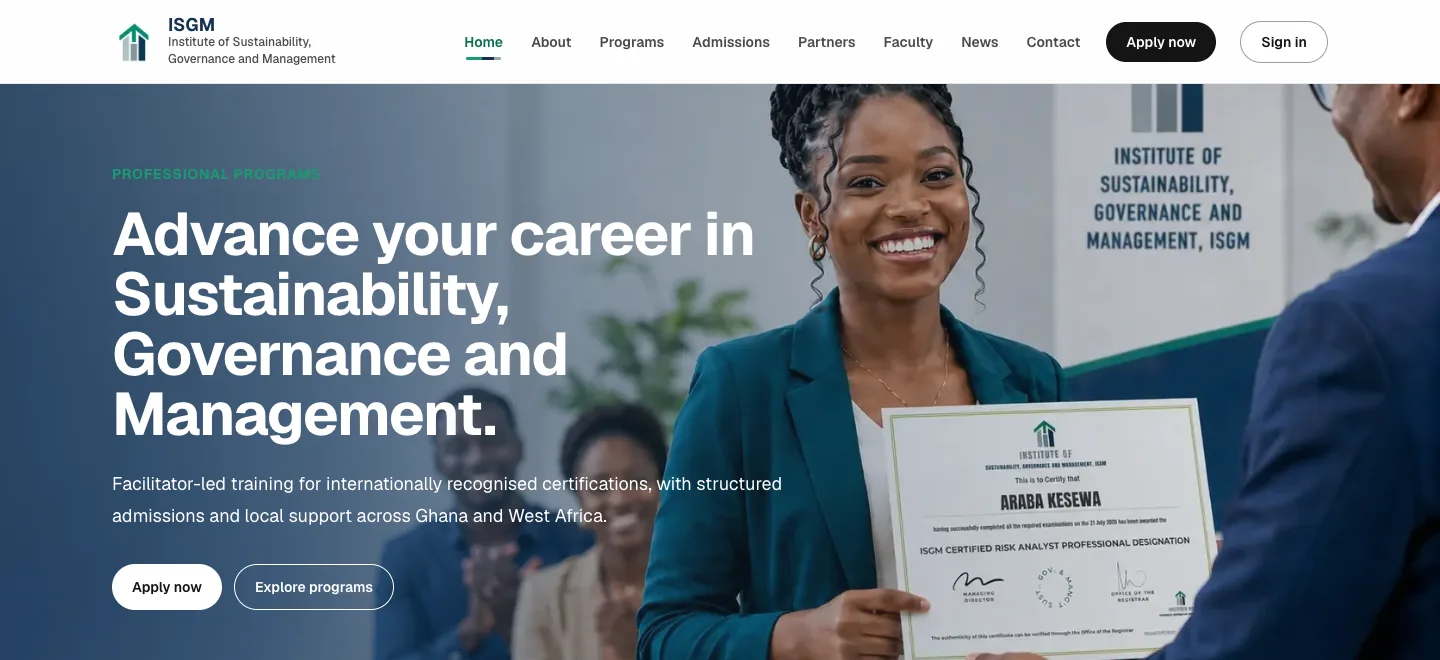
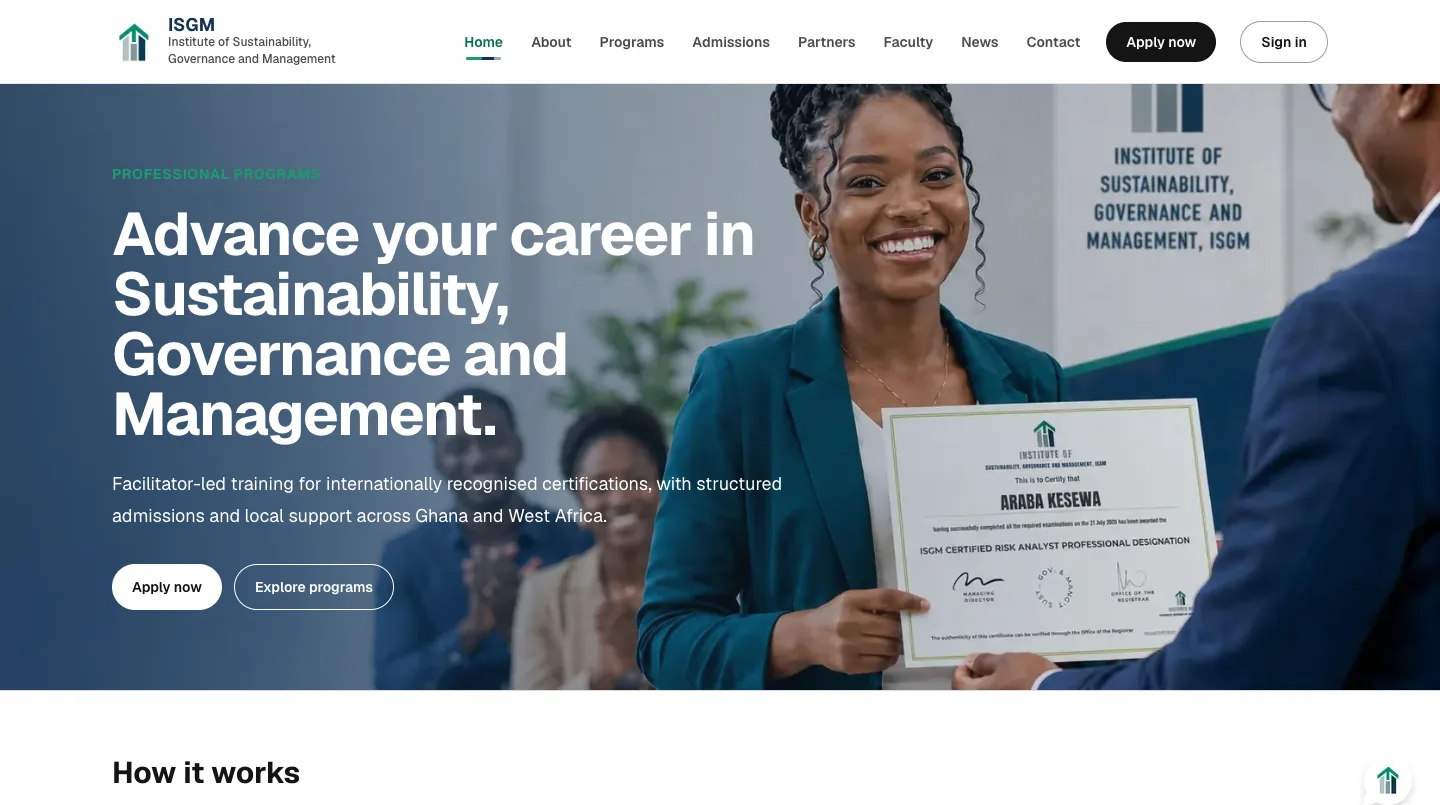
Phase 4: ISGM case study — gallery, public screens, full factual write-up

diff --git a/components/sections/CaseStudyGallery.tsx b/components/sections/CaseStudyGallery.tsx
@@ -1,0 +1,87 @@
+import Image from "next/image";
+import { Container } from "@/components/ui/Container";
+import { Reveal } from "@/components/ui/Reveal";
+
+interface CaseStudyGalleryProps {
+  title: string;
+  /** Cover shown first when present; screenshots follow without duplicating the cover path. */
+  cover?: string;
+  screenshots?: string[];
+}
+
+function labelFromPath(src: string): string {
+  const file = src.split("/").pop()?.replace(/\.(webp|png|jpe?g|avif)$/i, "") ?? "screenshot";
+  return file
+    .replace(/^isgm-/, "")
+    .replace(/[-_]+/g, " ")
+    .replace(/\b\w/g, (c) => c.toUpperCase());
+}
+
+export function CaseStudyGallery({ title, cover, screenshots = [] }: CaseStudyGalleryProps) {
+  const images = [
+    ...(cover ? [{ src: cover, label: "Overview" }] : []),
+    ...screenshots
+      .filter((src) => src !== cover)
+      .map((src) => ({ src, label: labelFromPath(src) })),
+  ];
+
+  if (images.length === 0) return null;
+
+  const [lead, ...rest] = images;
+
+  return (
+    <section className="border-y border-[var(--border)] bg-[rgba(255,255,255,0.02)] py-16 md:py-20">
+      <Container>
+        <Reveal>
+          <p className="mb-4 text-xs uppercase tracking-widest text-[var(--gold)]">
+            Product screens
+          </p>
+          <h2 className="mb-10 max-w-2xl font-heading text-3xl font-bold text-white md:text-4xl">
+            The public journey, as shipped
+          </h2>
+        </Reveal>
+
+        <Reveal>
+          <figure className="overflow-hidden rounded-sm border border-[var(--border)] bg-[#0a0a0c]">
+            <div className="relative aspect-[16/10] w-full">
+              <Image
+                src={lead.src}
+                alt={`${title} — ${lead.label}`}
+                fill
+                className="object-cover object-top"
+                sizes="(max-width: 1280px) 100vw, 1120px"
+                priority
+              />
+            </div>
+            <figcaption className="border-t border-[var(--border)] px-5 py-3 text-sm text-[var(--silver)]">
+              {lead.label}
+            </figcaption>
+          </figure>
+        </Reveal>
+
+        {rest.length > 0 && (
+          <div className="mt-6 grid grid-cols-1 gap-6 md:grid-cols-2">
+            {rest.map((image, i) => (
+              <Reveal key={image.src} delay={0.08 * (i + 1)}>
+                <figure className="overflow-hidden rounded-sm border border-[var(--border)] bg-[#0a0a0c]">
+                  <div className="relative aspect-[16/10] w-full">
+                    <Image
+                      src={image.src}
+                      alt={`${title} — ${image.label}`}
+                      fill
+                      className="object-cover object-top"
+                      sizes="(max-width: 768px) 100vw, 50vw"
+                    />
+                  </div>
+                  <figcaption className="border-t border-[var(--border)] px-5 py-3 text-sm text-[var(--silver)]">
+                    {image.label}
+                  </figcaption>
+                </figure>
+              </Reveal>
+            ))}
+          </div>
+        )}
+      </Container>
+    </section>
+  );
+}

diff --git a/app/work/[slug]/page.tsx b/app/work/[slug]/page.tsx
@@ -2,6 +2,7 @@ import type { Metadata } from "next";
 import { notFound } from "next/navigation";
 import { getAllProjects, getProjectBySlug } from "@/lib/projects";
 import { CaseStudyHero, CaseStudyFooter } from "@/components/sections/CaseStudyContent";
+import { CaseStudyGallery } from "@/components/sections/CaseStudyGallery";
 import { MdxSection } from "@/components/sections/MdxSection";
 import { breadcrumbJsonLd, creativeWorkJsonLd, jsonLdScript, pageMetadata } from "@/lib/seo";
 
@@ -64,6 +65,11 @@ export default async function CaseStudyPage({ params }: Props) {
         }}
       />
       <CaseStudyHero meta={meta} />
+      <CaseStudyGallery
+        title={meta.title}
+        cover={meta.cover}
+        screenshots={meta.screenshots}
+      />
       <MdxSection content={project.content} />
       <CaseStudyFooter />
     </article>

diff --git a/HANDOFF.md b/HANDOFF.md
@@ -1,7 +1,7 @@
 # Kemma Technologies — Repositioning Handoff
 
 Continuation notes for the strategic repositioning and professional upgrade of
-this site. Written at the end of **Phase 3**. Read this before changing code.
+this site. Written at the end of **Phase 4**. Read this before changing code.
 
 > `AUDIT_REPORT.md` in this repo is **stale** (dated 2026-07-01). It still
 > describes the testimonials as fictional, which was fixed two commits later,
@@ -139,16 +139,16 @@ Kemma products (Giveaways.live, In Development) → why Kemma → process (6 ste
 → testimonials (quotes unchanged) → final CTA.
 
 New/updated: `components/sections/{FlagshipPlatform,ProductsSection,WhyKemma}.tsx`,
-`lib/products.ts`, `content/projects/isgm-platform.mdx` (entry + cover so the
-flagship and case-study link work; Phase 4 still owns screenshot gallery
-rendering and deeper case-study polish), `public/projects/isgm/*.webp`,
-homepage wiring in `app/page.tsx`, ProcessSection expanded to 6 steps,
-ServicesSummary / FeaturedWork / CtaBand copy refreshed.
+`lib/products.ts`, homepage wiring in `app/page.tsx`, ProcessSection expanded
+to 6 steps, ServicesSummary / FeaturedWork / CtaBand copy refreshed.
 
-**Phase 4 — ISGM case study.** Expand `content/projects/isgm-platform.mdx`.
-Render `meta.screenshots`, which nothing currently does. Capture/convert
-remaining public screens (Programs, application) — authenticated screens stay
-out of scope.
+**Phase 4 — ISGM case study.** ✅ Complete. Expanded `isgm-platform.mdx` with
+full factual structure (challenge, solution, applicant/staff experience,
+engineering, outcomes — no fabricated metrics). Added
+`CaseStudyGallery` which renders `cover` + `meta.screenshots` on every case
+study that has them. Public screens captured: home, Programs, admissions
+(`/projects/isgm/{isgm-cover,isgm-home,isgm-programs,isgm-application}.webp`).
+Authenticated dashboards remain out of scope.
 
 **Phase 5 — Work architecture.** Add `category` + `status` to the schema in
 `lib/projects.ts`, filters, client-work vs Kemma-products split, and
